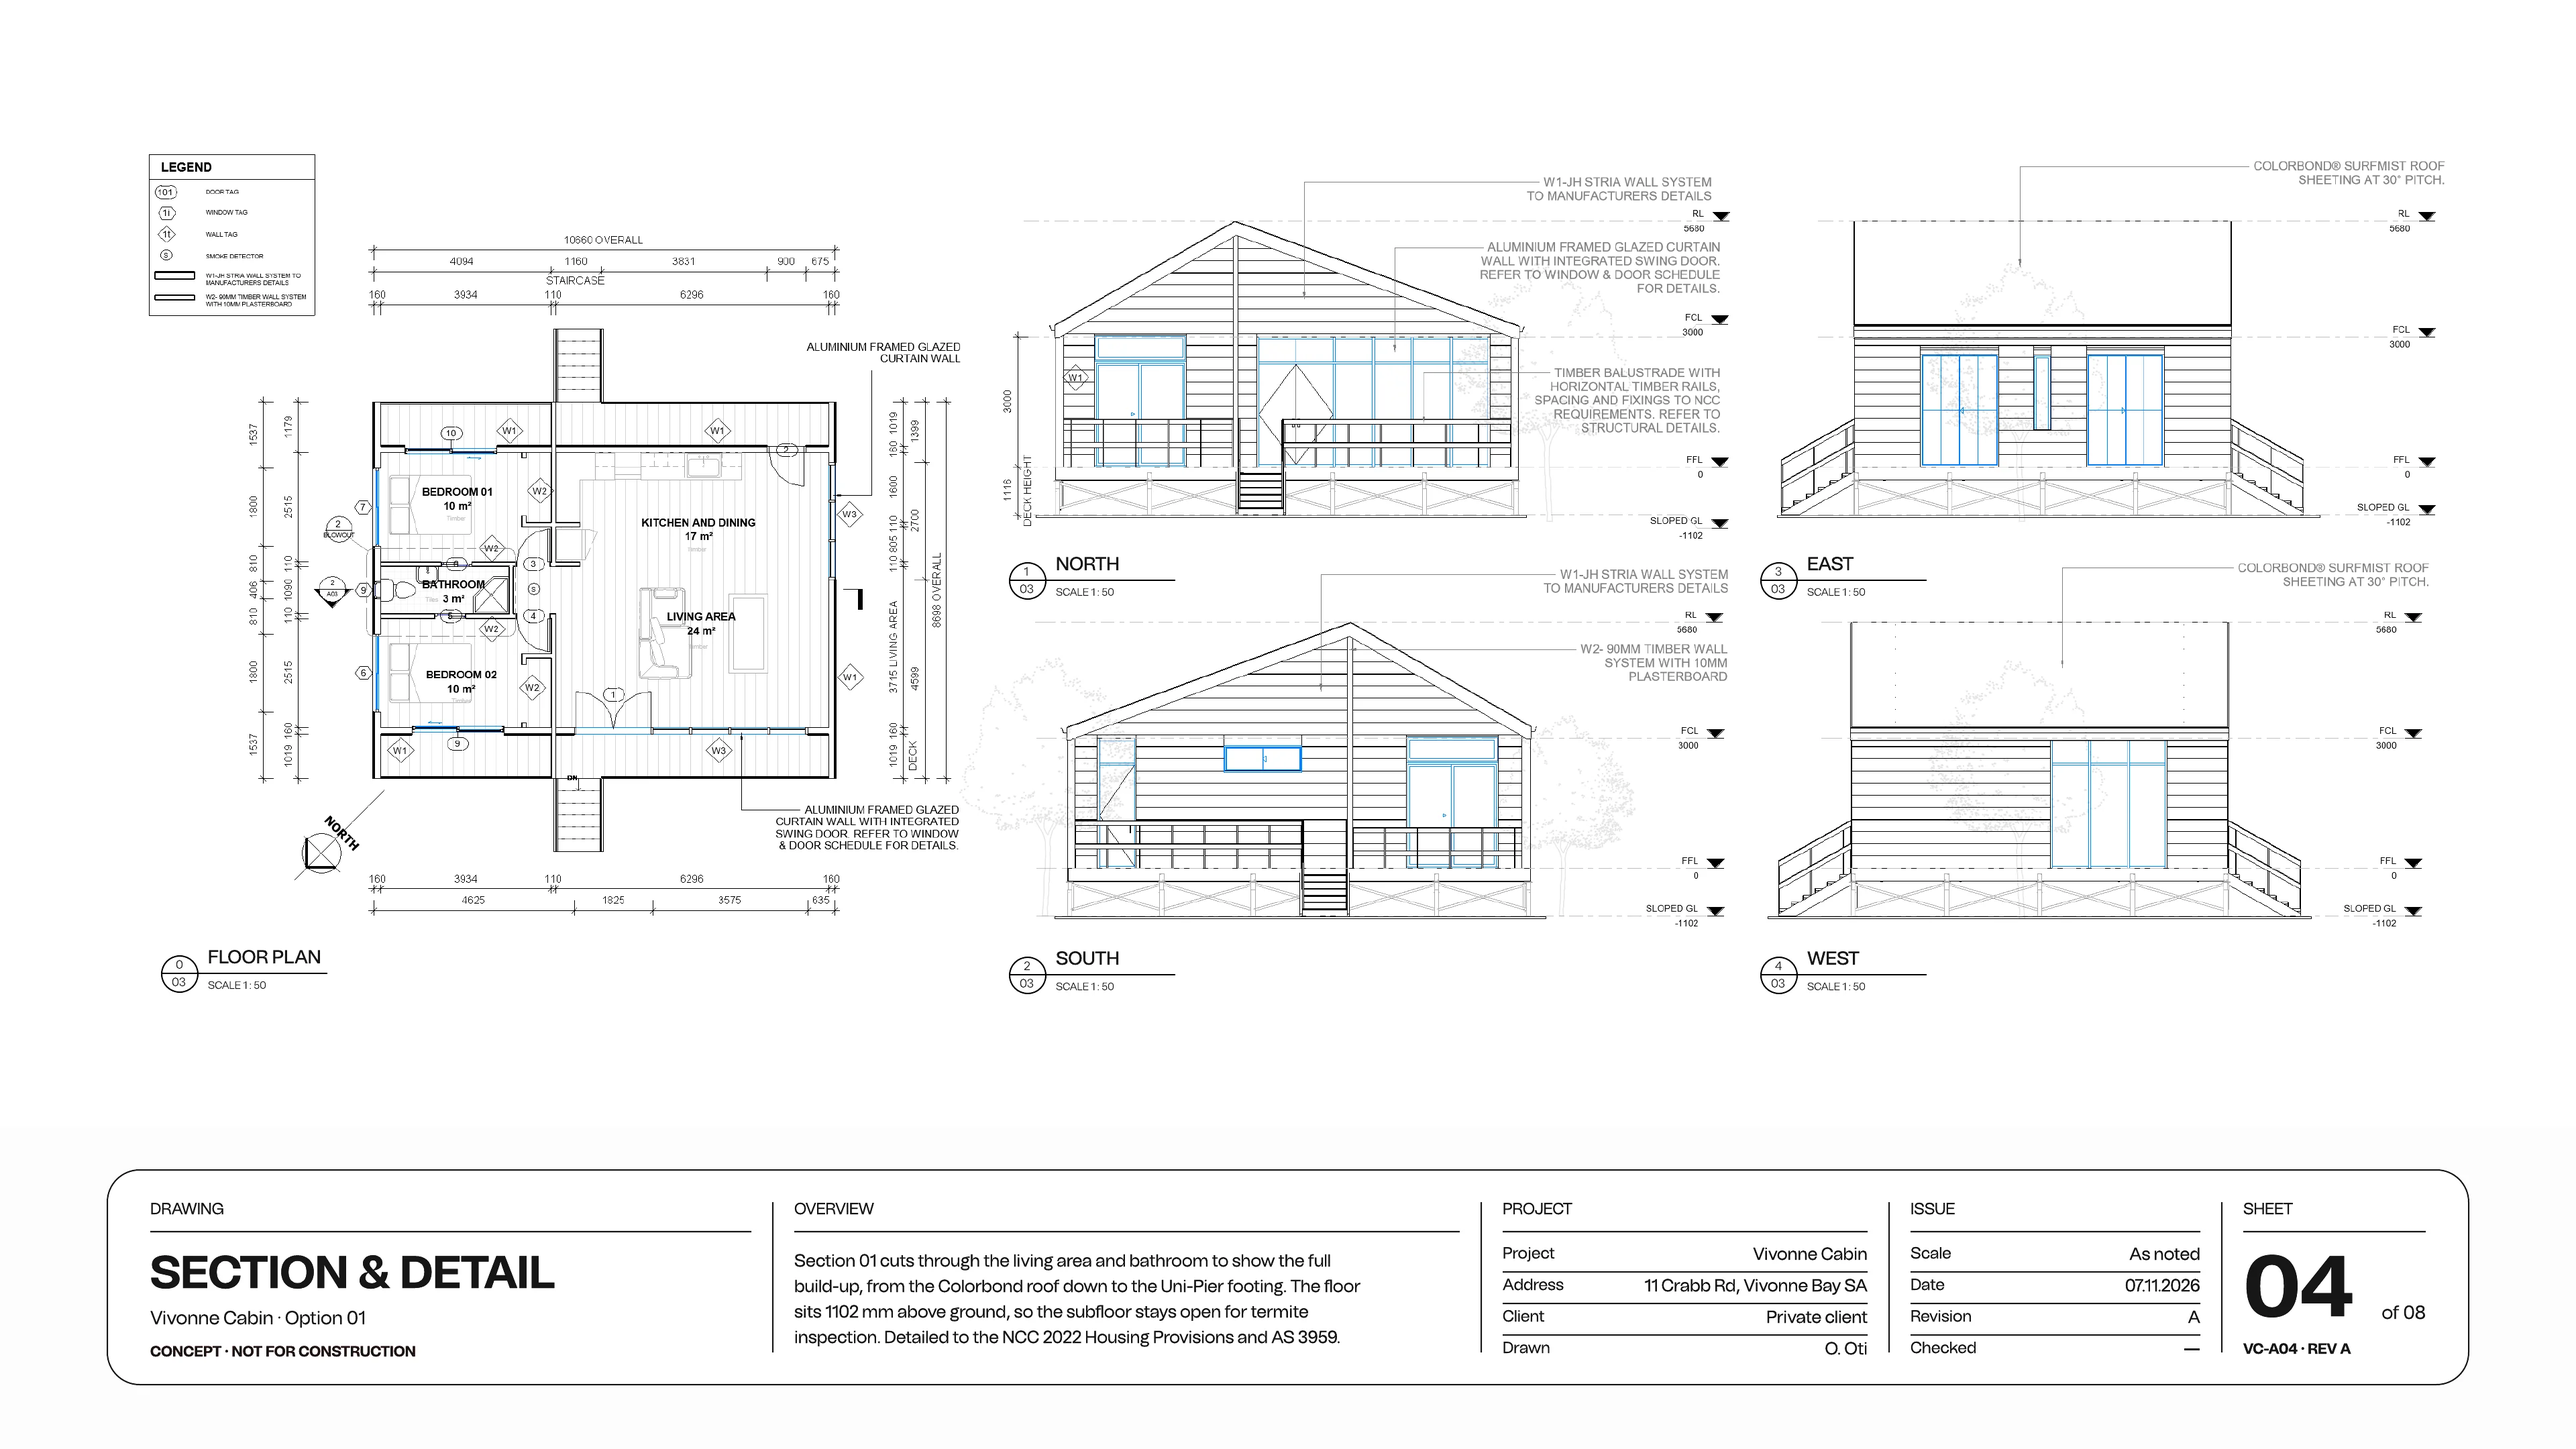
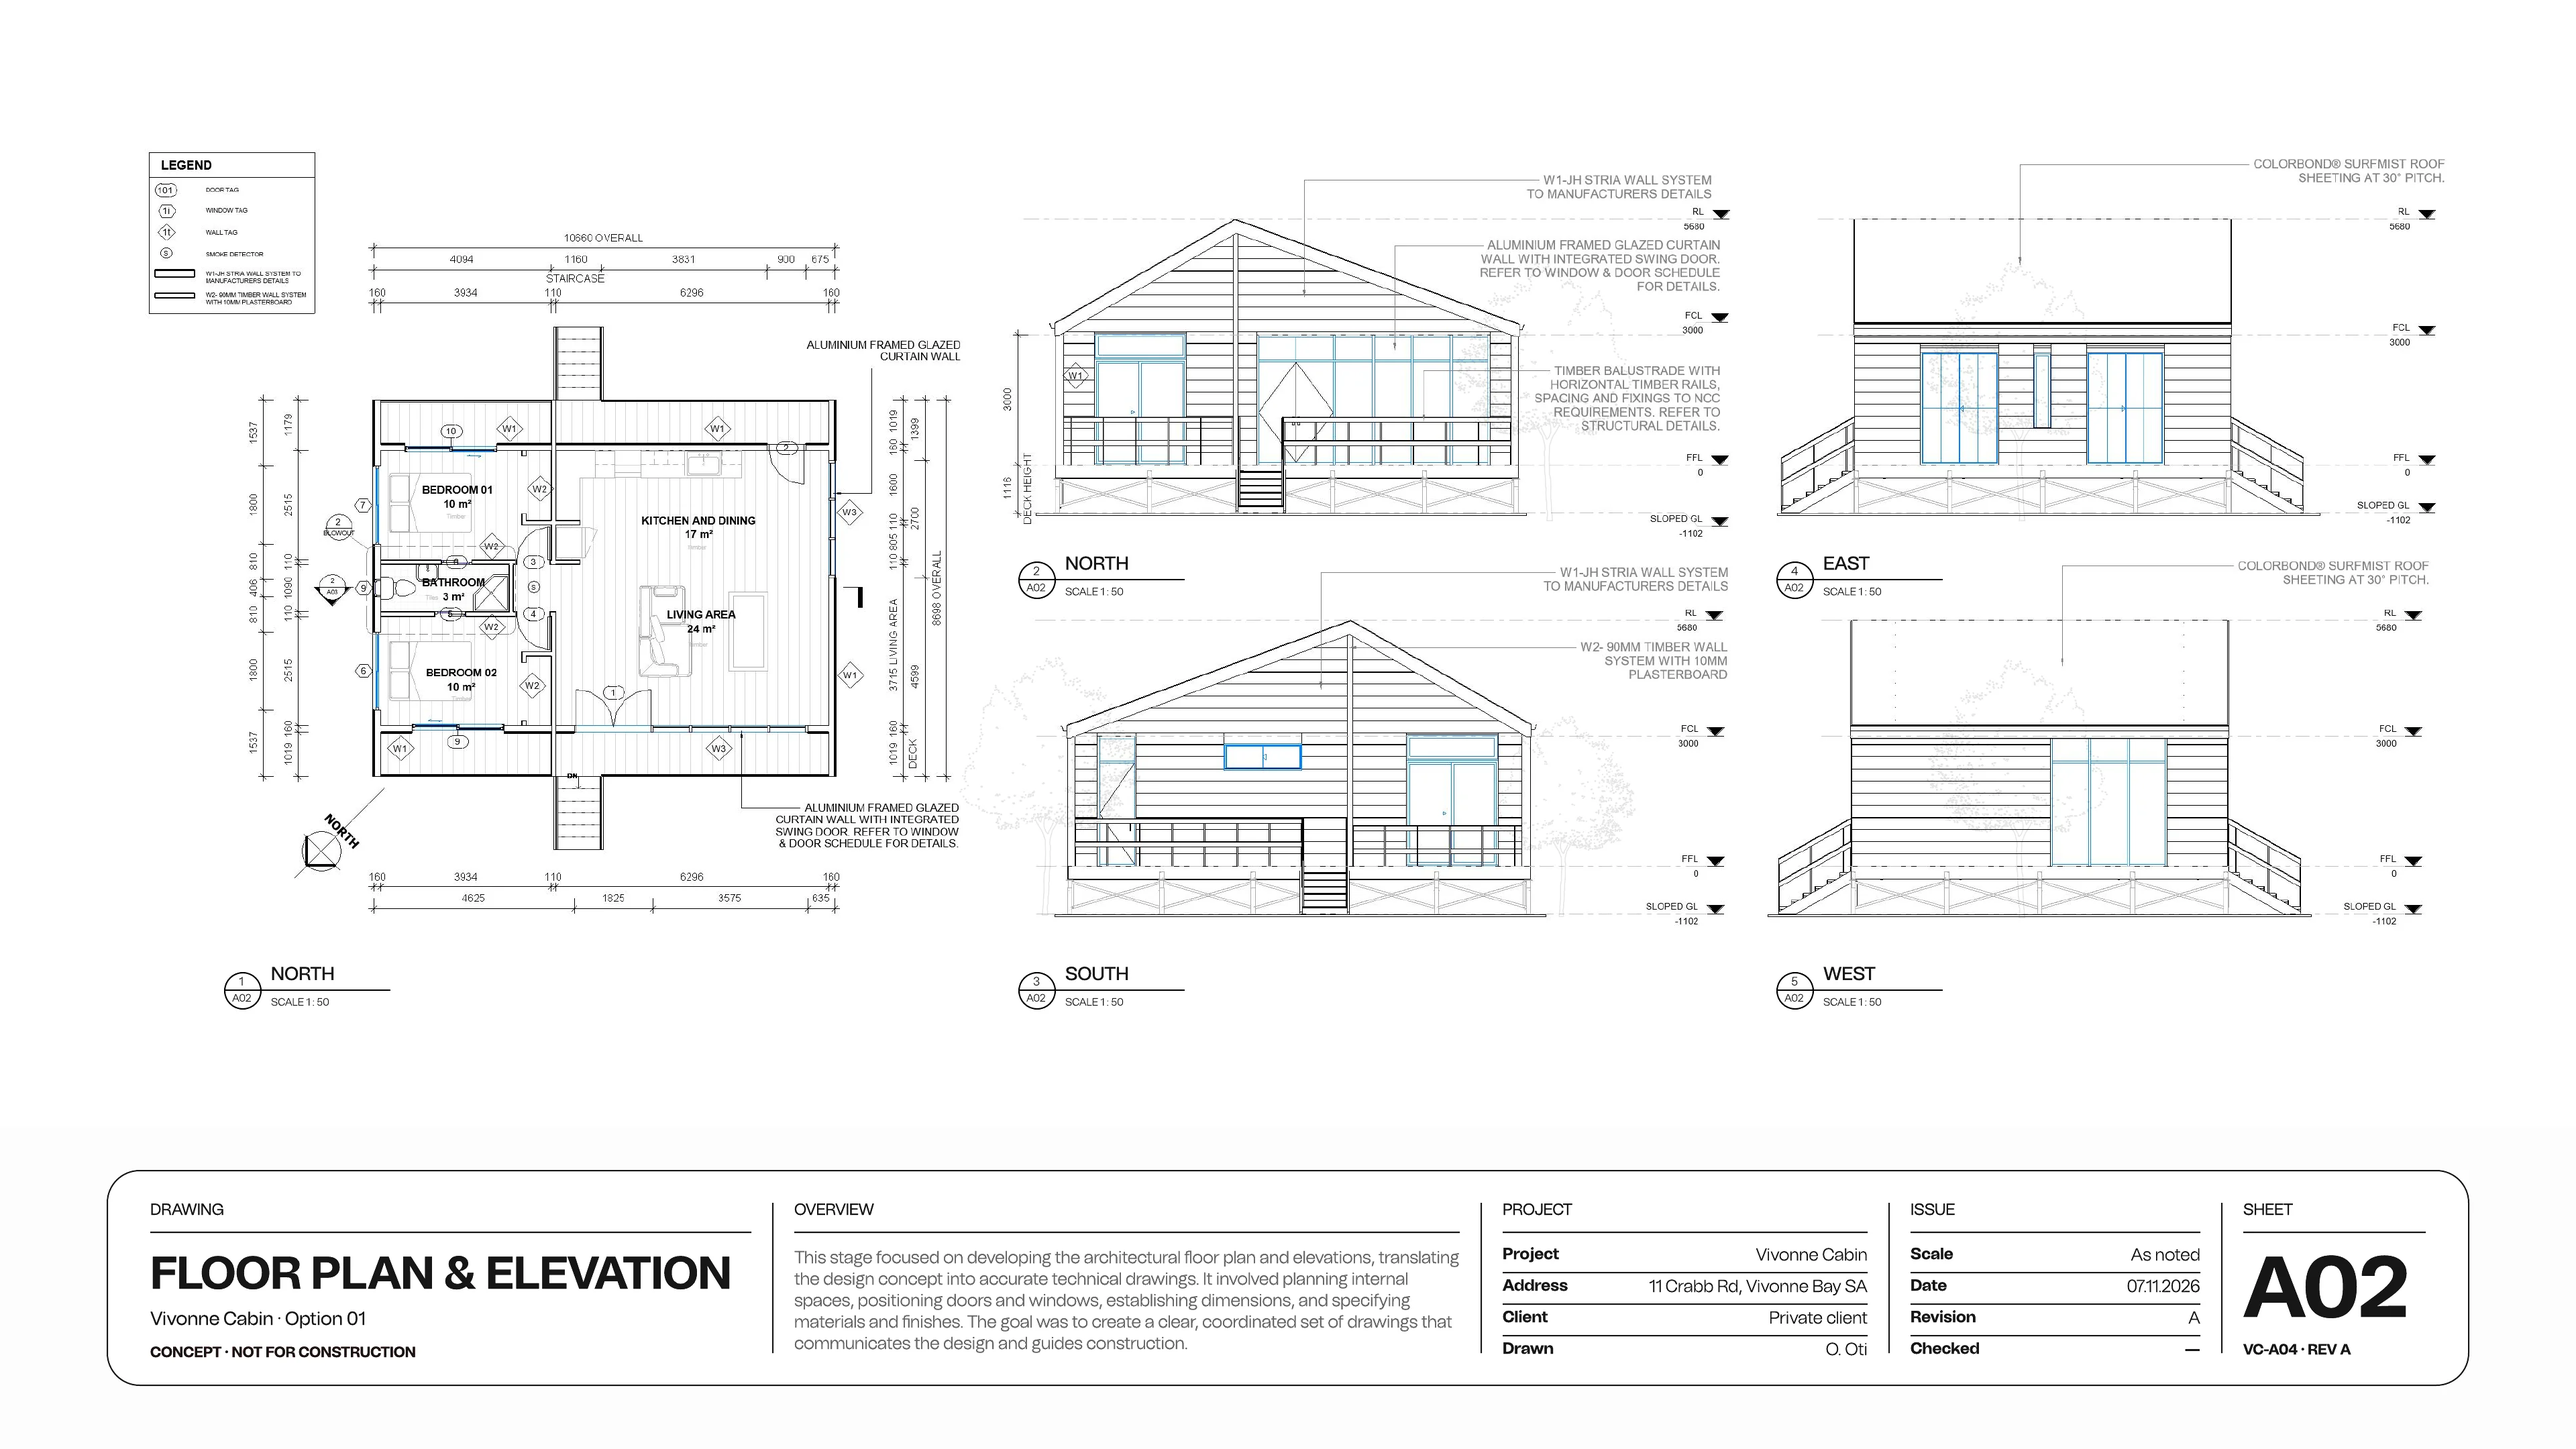
Vivonne Cabin: updated option 01 pages (Frames 32–36)
The option 01 overview, floor plan and elevations (A02), section and
detail (A03), details (A04) and compliance blow-out, with their new
title blocks and overview text. Frames 32–36 are 1920 × 1083, so 3 px
of blank margin come off top and bottom to keep the usual 16:9 page.

Claude-Session: https://claude.ai/code/session_01XrsNxmTzmpsovjqss1yHEC

diff --git a/projects/books.js b/projects/books.js
@@ -122,19 +122,19 @@ window.BOOKS =
       },
       {
         "src": "assets/images/vivonne-02-option1.webp",
-        "alt": "Vivonne Cabin, option 01: a 3D view of the gable-roofed cabin among trees on its steel piers, with its deck, stair and full-height glazing, beside the project details and context notes."
+        "alt": "Vivonne Cabin, option 01: a 3D view of the gable-roofed cabin among trees on its steel piers, with its deck, stair and full-height glazing, beside the project details, the context and the list of sheets."
       },
       {
         "src": "assets/images/vivonne-03-plans.webp",
-        "alt": "Vivonne Cabin, option 01: floor plan with dimensions and room areas, and the north, south, east and west elevations at 1:50."
+        "alt": "Vivonne Cabin, option 01, floor plan and elevations (sheet A02, 1:50): the floor plan with dimensions and room areas, and the north, south, east and west elevations. Overview: this stage developed the floor plan and elevations, planning internal spaces, positioning doors and windows, establishing dimensions and specifying materials and finishes."
       },
       {
         "src": "assets/images/vivonne-04-section.webp",
-        "alt": "Vivonne Cabin, option 01: section 01 through the living area and bathroom at 1:25, from the Colorbond roof down to the Uni-Pier footing, with a footing detail at 1:10."
+        "alt": "Vivonne Cabin, option 01, section and detail (sheet A03): section 01 through the living area and bathroom at 1:25, from the Colorbond roof down to the Uni-Pier footing, with a footing detail at 1:10. Overview: this stage developed detailed building sections and construction details to understand how the structural elements come together."
       },
       {
         "src": "assets/images/vivonne-05-details.webp",
-        "alt": "Vivonne Cabin, option 01: construction details of the Uni-Pier and Prydar hanger, the external wall system and the internal wall system."
+        "alt": "Vivonne Cabin, option 01, details (sheet A04): 3D construction assemblies of the Uni-Pier and Pryda hanger, the external wall system and the internal wall system. Overview: this stage modelled how the building components connect, using manufacturer specifications, to improve the accuracy of the building model and resolve construction details."
       },
       {
         "src": "assets/images/vivonne-06-schedules.webp",
@@ -142,7 +142,7 @@ window.BOOKS =
       },
       {
         "src": "assets/images/vivonne-07-compliance.webp",
-        "alt": "Vivonne Cabin, option 01: an exploded view of the roof, wall and floor systems, each annotated with how it meets the NCC 2022 Housing Provisions and AS 3959."
+        "alt": "Vivonne Cabin, option 01, compliance blow-out: an exploded view of the roof, wall and floor systems, each annotated with how it meets the NCC 2022 Housing Provisions and AS 3959, from the corrosion-rated Colorbond roof to the BAL-40 rated cladding."
       },
       {
         "src": "assets/images/vivonne-08-option2.webp",

diff --git a/README.md b/README.md
@@ -164,12 +164,12 @@ sting-rays-3-cad.webp              super-slides-3-cad.webp
 sting-rays-4-visualisation.webp    super-slides-4-colourways.webp
 sting-rays-5-detail.webp           super-slides-5-render.webp
 vivonne-01-site.webp              (2026 portfolio, p. 4)
-vivonne-02-option1.webp           (p. 6)
-vivonne-03-plans.webp             (p. 7)
-vivonne-04-section.webp           (p. 8)
-vivonne-05-details.webp           (p. 9)
+vivonne-02-option1.webp           (Frame 34)
+vivonne-03-plans.webp             (Frame 33, sheet A02)
+vivonne-04-section.webp           (Frame 32, sheet A03)
+vivonne-05-details.webp           (Frame 35, sheet A04)
 vivonne-06-schedules.webp         (p. 10)
-vivonne-07-compliance.webp        (p. 11)
+vivonne-07-compliance.webp        (Frame 36)
 vivonne-08-option2.webp           (p. 12)
 vivonne-09-option2-plans.webp     (p. 13)
 vivonne-10-option2-section.webp   (p. 14)
